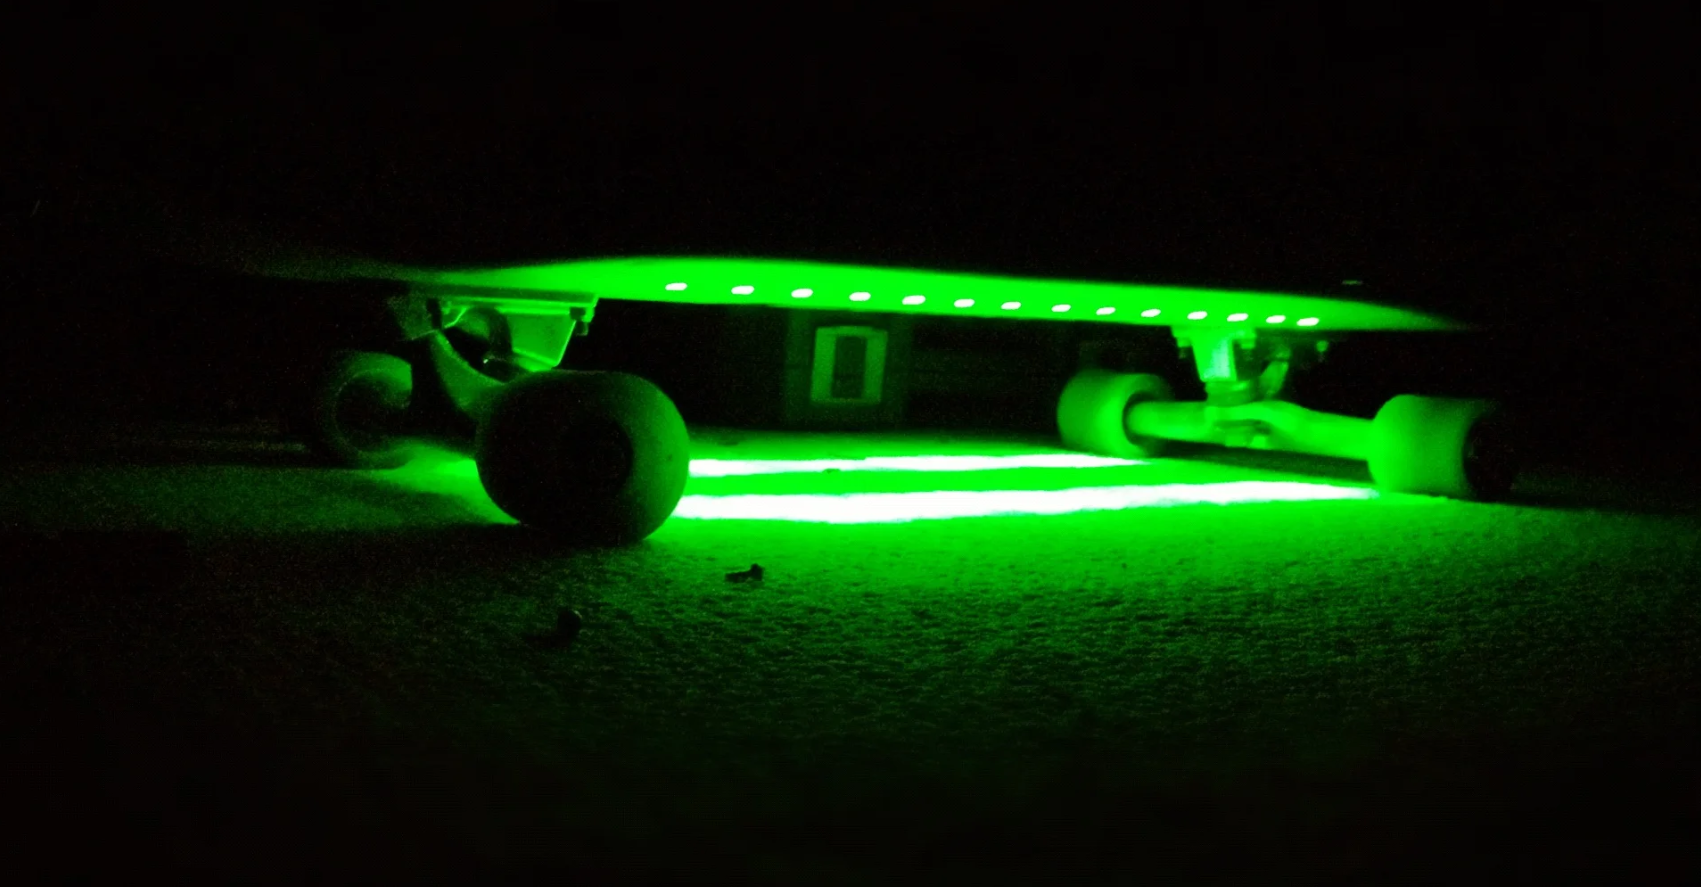
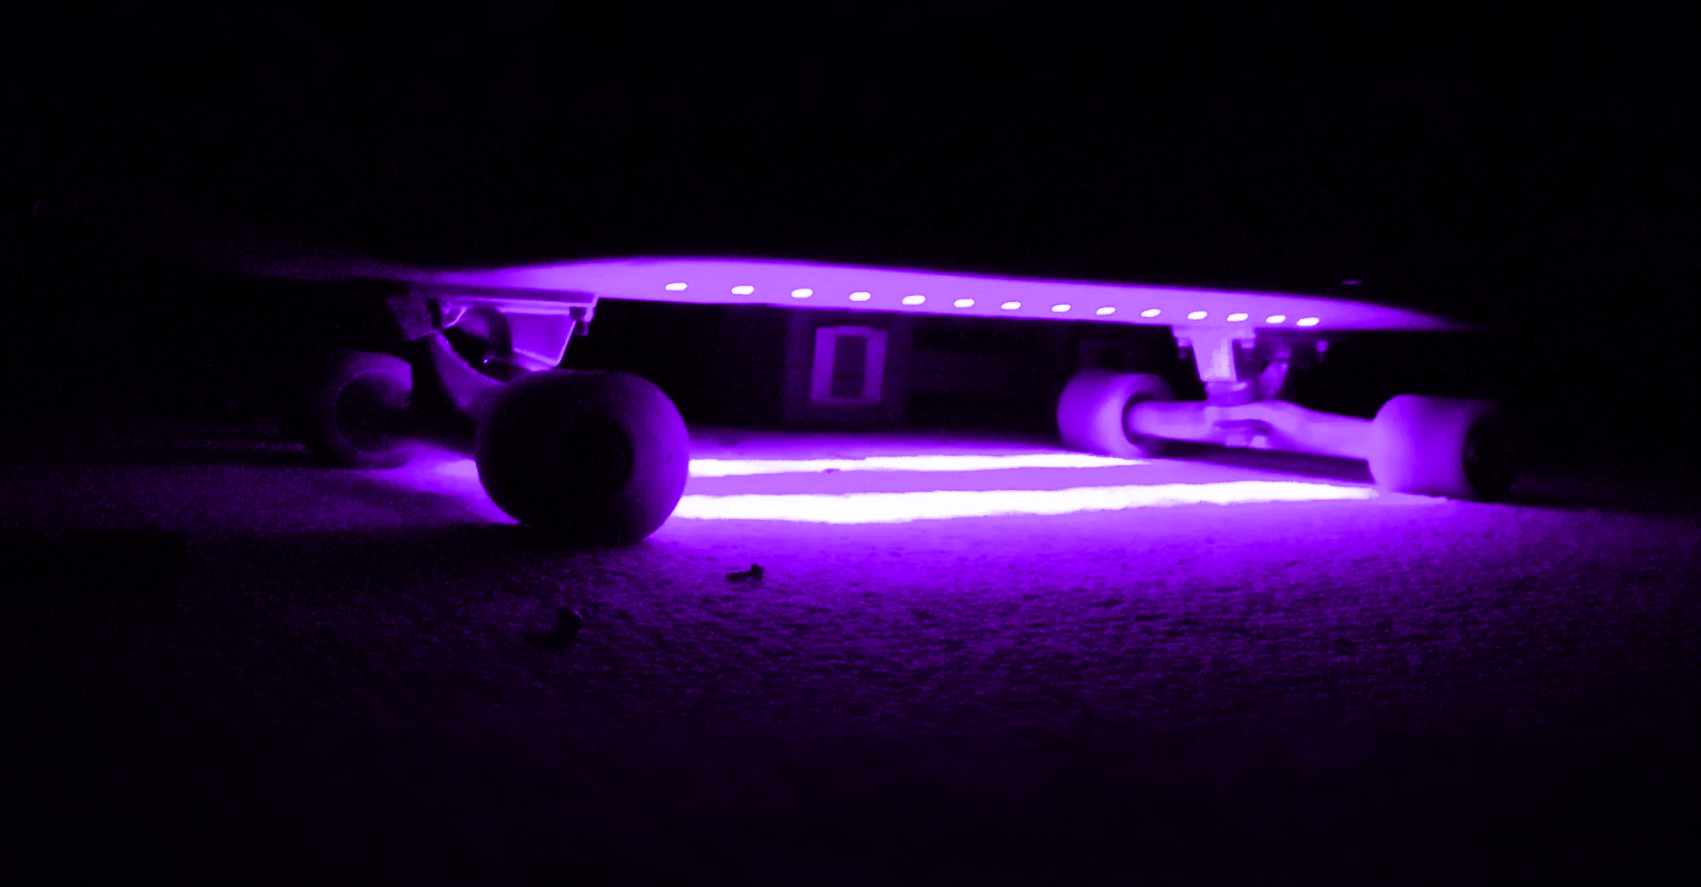
switch to purple & log updates

Changed region(s): [[0.0312, 0.274, 1.0, 0.8828]]

diff --git a/logs.html b/logs.html
@@ -38,6 +38,43 @@
         <br>
         <br>
 
+        <div class="log" id="log_10">
+            <h1>Week 10</h1>
+
+            <h3>Nov 17 - Nov 23</h3>
+
+            <br>
+
+            <h2 class="log_section">Key Things Completed</h2>
+
+            <ul class="task_list">
+                <li>Completed intial detail design for each subsystem.</li>
+                <li>Prepared Final Design Presentation.</li>
+                <li>Website updates.</li>
+            </ul>
+
+            <br>
+        </div>
+
+        <div class="log" id="log_9">
+            <h1>Week 9</h1>
+
+            <h3>Nov 10 - Nov 16</h3>
+
+            <br>
+
+            <h2 class="log_section">Key Things Completed</h2>
+
+            <ul class="task_list">
+                <li>Finalized motor selection and battery back layout.</li>
+                <li>Completed suspension linkage design.</li>
+                <li>Finished hardware selection.</li>
+                <li>Started software implementation.</li>
+            </ul>
+
+            <br>
+        </div>
+
         <div class="log" id="log_8">
             <h1>Week 8</h1>
 

diff --git a/style.css b/style.css
@@ -56,7 +56,7 @@ a {
     padding: 7px;
     border-radius: 10px;
     color: #000000;
-    background-color: #00cc00;
+    background-color: #bf77f6;
 }
 
 .button:hover {
@@ -67,7 +67,7 @@ a {
 /* Nav Bar */
 
 .nav_bar {
-    background-image: -webkit-linear-gradient(-45deg, #00cc00 30%, #ffffff 30%);
+    background-image: -webkit-linear-gradient(-45deg, #bf77f6 30%, #ffffff 30%);
     height: 5em;
     border-radius: 15px;
     top: 10px;
@@ -110,7 +110,7 @@ a {
     float: right;
     list-style-type: none;
     margin-left: 25px;
-    background-image: linear-gradient(to right, #00cc00 50%, #ffffff 50%);
+    background-image: linear-gradient(to right, #bf77f6 50%, #ffffff 50%);
     background-size: 200% 4px;
     background-repeat: no-repeat;
     background-position: 100% 100%;
@@ -182,7 +182,7 @@ a {
 .tile {
     text-decoration: none;
     width: 250px;
-    background-color: #00cc00;
+    background-color: #bf77f6;
     border-radius: 25px;
     display: box;
 }
